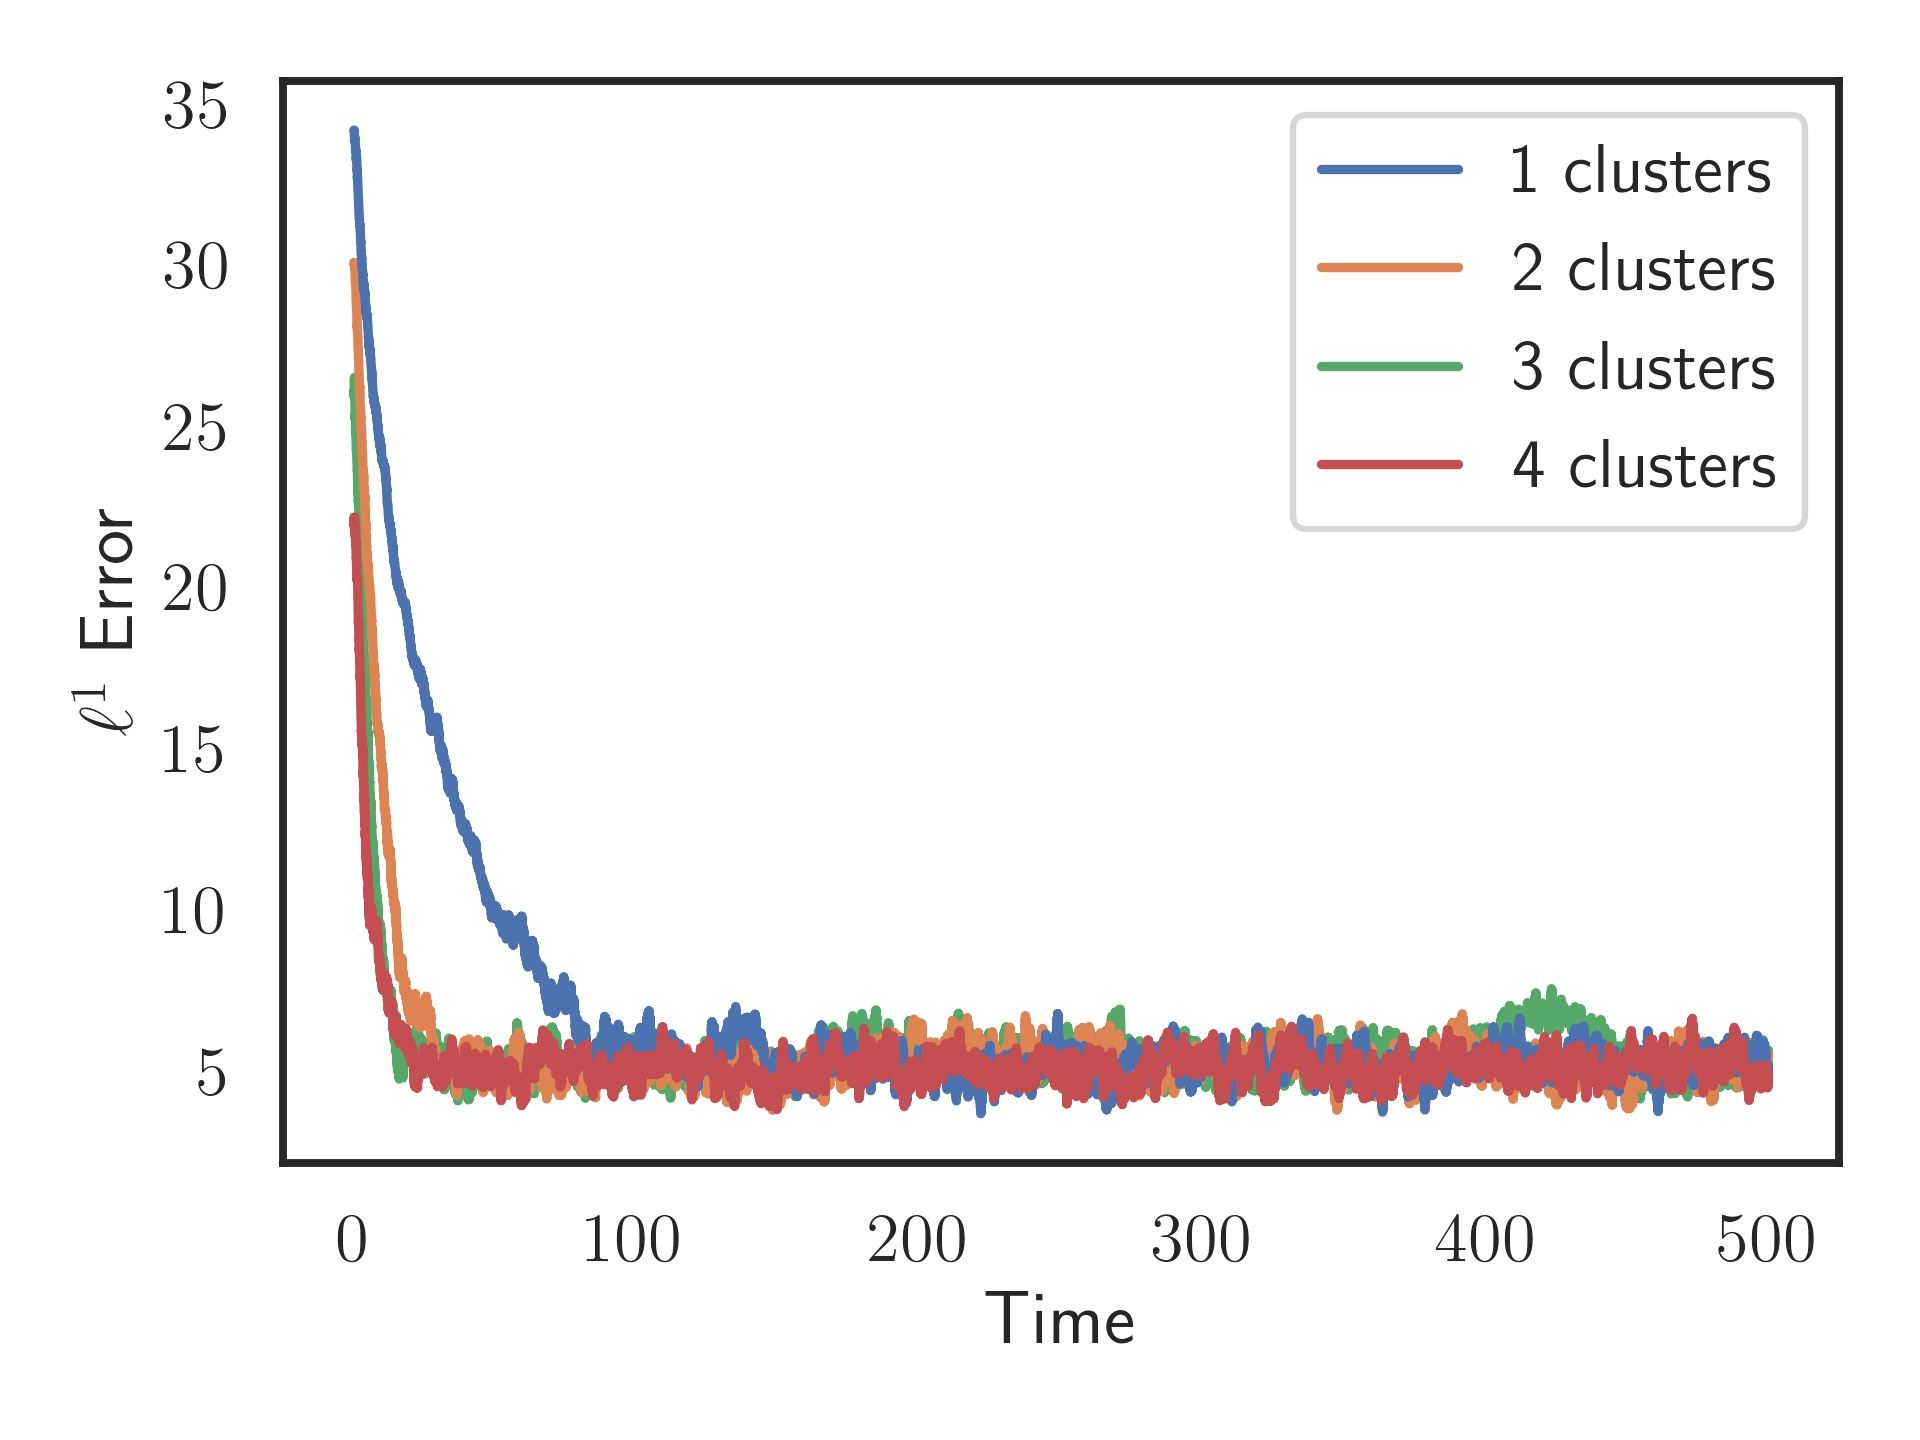
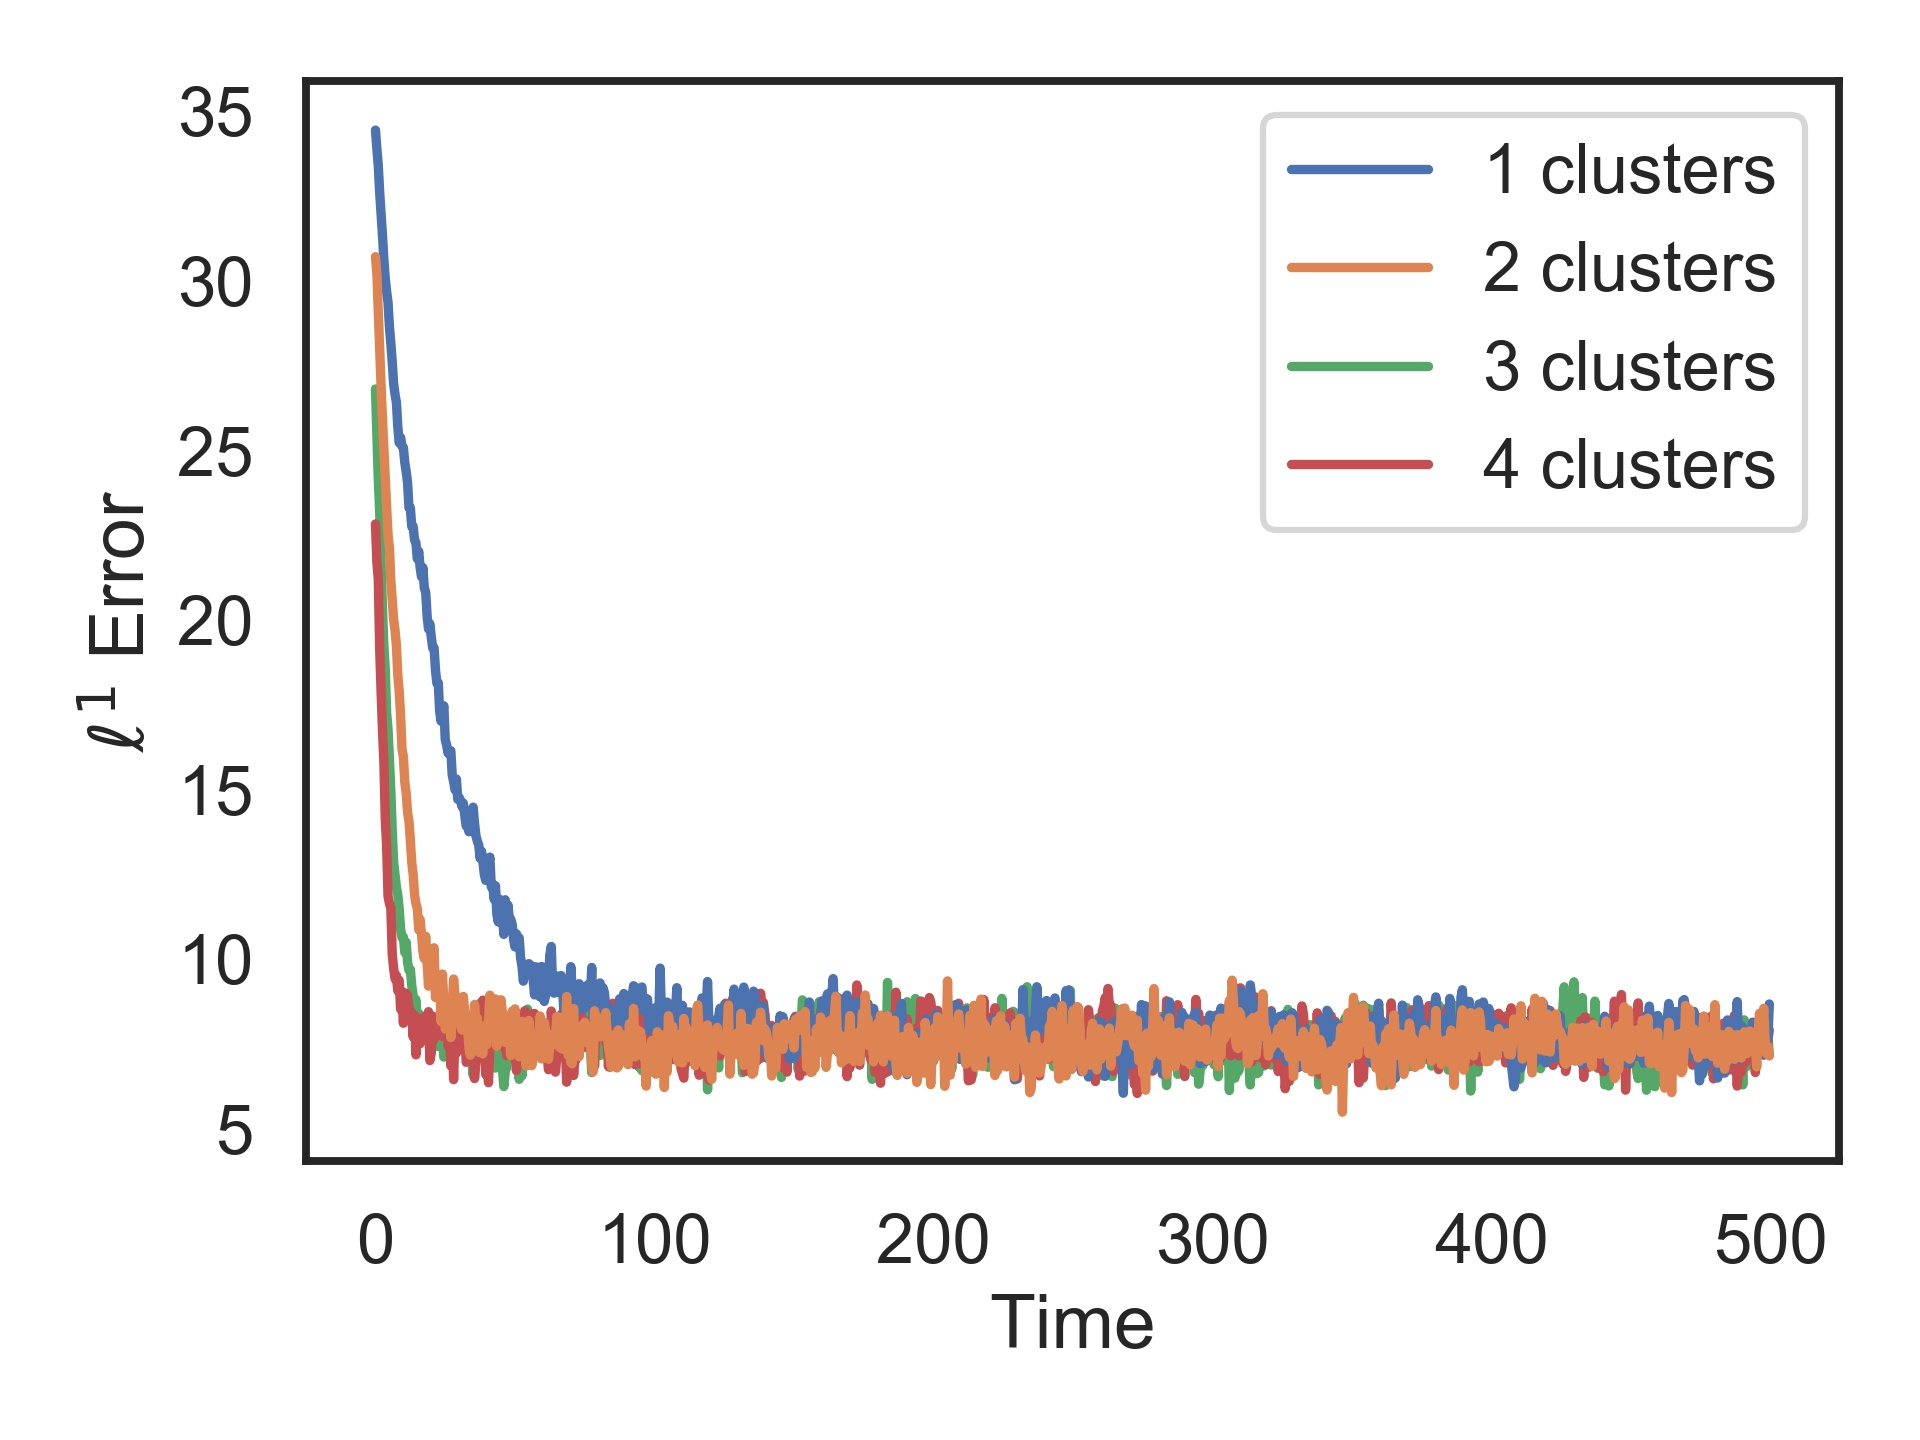
Tidying up with some f strings

diff --git a/particle/processing.py b/particle/processing.py
@@ -7,14 +7,16 @@ import itertools
 import numpy as np
 import pandas as pd
 import pathlib
-import seaborn as sns
+import warnings
+
+# import seaborn as sns
 import yaml
 
 from particle.simulate import get_trajectories
 
 
-sns.set()
-sns.color_palette("colorblind")
+# sns.set()
+# sns.color_palette("colorblind")
 
 """
 Running and Saving
@@ -55,8 +57,9 @@ def create_experiment_yaml(
 
     """
     pathlib.Path(file_path).mkdir(parents=True, exist_ok=True)
-    with open(file_path + filename + ".yaml", "w") as file:
+    with open(file_path + filename + ".yaml", "w+") as file:
         file.write("{}")
+
     with open(file_path + filename + ".yaml", "r") as file:
         experiment_yaml = yaml.safe_load(file)
 
@@ -86,21 +89,28 @@ def run_experiment(
     for values in itertools.product(*map(test_parameters.get, keys)):
 
         kwargs = dict(zip(keys, values))
-        # Pickle data, generate filename and store in yaml
-        # Run simulation
+
+        if "dt" not in kwargs:
+            kwargs["dt"] = round(kwargs["D"] * 0.1, 5)
+            print(f"No timestep given, scaling dt with diffusion dt = {kwargs['dt']}")
+
         print("\n Using parameters:\n")
         for parameter_name, parameter_value in kwargs.items():
-            print("\t{}:  {}".format(parameter_name, parameter_value))
+            print(f"\t{parameter_name}:  {parameter_value}")
 
         start_time = datetime.now()
+        # Run simulation
         x, v = get_trajectories(**kwargs)
 
-        print("Time to solve was  {} seconds".format(datetime.now() - start_time))
+        print(f"Time to solve was  {datetime.now() - start_time} seconds")
+
+        # Convert to Pandas df for easy conversion to feather
         position_df = pd.DataFrame(x)
         velocity_df = pd.DataFrame(v)
         position_df.columns = position_df.columns.map(str)
         velocity_df.columns = velocity_df.columns.map(str)
 
+        # Store as feather
         filename = generate_slug(4)
 
         pathlib.Path("Experiments/Data/").mkdir(parents=True, exist_ok=True)
@@ -110,9 +120,9 @@ def run_experiment(
         with open("Experiments/" + experiment_name + ".yaml", "w") as file:
             exp_yaml.update({filename: kwargs})
             yaml.dump(exp_yaml, file)
-        print("Saved at {}\n".format("Experiments/Data/" + filename))
+        print(f"Saved at {'Experiments/Data/' + filename}\n")
 
-    print("TOTAL TIME TAKEN: {}".format(datetime.now() - begin))
+    print(f"TOTAL TIME TAKEN: {datetime.now() - begin}")
 
 
 """
@@ -140,12 +150,14 @@ def match_parameters(fixed_parameters: dict, history: dict) -> list:
             matching_files.append(name)
     if matching_files[0] is None:
         raise ValueError("No matching parameters were found")
-    print("Found {} files matching parameters".format(len(matching_files)))
+    print(f"Found {len(matching_files)} files matching parameters")
     return matching_files
 
 
 def load_traj_data(
-    file_name: str, search_parameters: dict, data_path: str = "../Experiments/Data/",
+    file_name: str,
+    simulation_parameters: dict,
+    data_path: str = "../Experiments/Data/",
 ):
     """Get trajectory data from file
 
@@ -162,12 +174,14 @@ def load_traj_data(
     try:
         x = pd.read_feather(data_path + file_name + "_x").to_numpy()
         v = pd.read_feather(data_path + file_name + "_v").to_numpy()
-        t = np.arange(0, search_parameters["T_end"], 0.5)
-        return t, x, v
+
     except FileNotFoundError:
         print(data_path + file_name)
         print(f"Could not load file {file_name}")
         return
+    dt = simulation_parameters.get("dt", round(simulation_parameters["D"] * 0.1, 5))
+    t = np.arange(0, simulation_parameters["T_end"], 10 * dt)
+    return t, x, v
 
 
 if __name__ == "__main__":

diff --git a/noisysystem_temp/Analysis/analysis_helper.py b/noisysystem_temp/Analysis/analysis_helper.py
@@ -17,20 +17,21 @@ def plot_avg_vel(
     """Plots average velocity of particles on log scale, colours lines according to
     number of clusters in the inital condition
     """
-    # if scalarMap is None:
-    #     cm = plt.get_cmap("coolwarm")
-    #     cNorm = colors.DivergingNorm(vmin=0, vcenter=2, vmax=4)
-    #     scalarMap = mplcm.ScalarMappable(norm=cNorm, cmap=cm)
+    if scalarMap is None:
+        cm = plt.get_cmap("coolwarm")
+        cNorm = colors.DivergingNorm(vmin=0, vcenter=2, vmax=4)
+        scalarMap = mplcm.ScalarMappable(norm=cNorm, cmap=cm)
     history = get_master_yaml(exp_yaml)
     list_of_names = match_parameters(search_parameters, history)
     print(list_of_names)
     for file_name in list_of_names:
-        t, x, v = load_traj_data(file_name, search_parameters, data_path)
+        t, x, v = load_traj_data(file_name, search_parameters, history, data_path)
 
         cluster_count = _get_number_of_clusters(history[file_name]["initial_dist_x"])
         ax.plot(
+            t,
             v.mean(axis=1),
-            # color=scalarMap.to_rgba(cluster_count),
+            color=scalarMap.to_rgba(cluster_count),
             # label=f"{cluster_count} Clusters",
         )
     # plt.tight_layout()
@@ -50,14 +51,14 @@ def _get_number_of_clusters(initial_condition: str) -> int:
 
 
 def calculate_l1_convergence(
-    search_parameters: dict,
+    simulation_parameters: dict,
     file_name: str,
     plot_hist: bool = False,
     data_path: str = "../Experiments/Data/",
     yaml_path: str = "../Experiments/",
     final_plot_time: float = 100000,
 ):
-    t, x, v = load_traj_data(file_name, search_parameters, data_path)
+    t, x, v = load_traj_data(file_name, simulation_parameters, data_path)
 
     dt = t[1] - t[0]
     error = []
@@ -67,7 +68,7 @@ def calculate_l1_convergence(
         ax.set_prop_cycle(
             cycler(color=[colormap(k) for k in np.linspace(1, 0, int(1 / dt))])
         )
-    for i in np.arange(0, min(len(t), final_plot_time // dt + 1)):
+    for i in np.arange(0, int(min(len(t), final_plot_time // 0.5))):
         hist_x, bin_edges = numba_hist(x, i)
         error_t = np.abs(1 / (2 * np.pi) - hist_x).sum()
         error.append(error_t)
@@ -101,7 +102,9 @@ def plot_convergence_from_clusters(ax, search_parameters: dict, yaml_path: str):
     cycle = plt.rcParams["axes.prop_cycle"].by_key()["color"]
     for file_name in file_names:
         print(file_name)
-        error = calculate_l1_convergence(search_parameters, file_name, plot_hist=False)
+        error = calculate_l1_convergence(
+            search_parameters, file_name, history, plot_hist=False
+        )
         cluster_count = _get_number_of_clusters(history[file_name]["initial_dist_x"])
         ax.plot(
             t, error, label=f"{cluster_count} clusters", color=cycle[cluster_count - 1]

diff --git a/noisysystem_temp/Analysis/OneClusterVaryNoiseAnalysis.py b/noisysystem_temp/Analysis/OneClusterVaryNoiseAnalysis.py
@@ -1,4 +1,4 @@
-from matplotlib import rc
+# from matplotlib import rc
 import matplotlib.cm as mplcm
 import matplotlib.colors as colors
 import matplotlib.pyplot as plt
@@ -6,10 +6,11 @@ import numpy as np
 import seaborn as sns
 
 from analysis_helper import calculate_l1_convergence
-from particle.processing import get_master_yaml, match_parameters
+from particle.processing import get_master_yaml, match_parameters, load_traj_data
+from particle.plotting import anim_torus
 
 # Standard plotting choices
-rc("text", usetex=True)
+# rc("text", usetex=True)
 sns.set(style="white", context="talk")
 
 search_parameters = {
@@ -21,22 +22,18 @@ search_parameters = {
     "initial_dist_x": "one_cluster",
     "initial_dist_v": "pos_const_near_0",
     "T_end": 250.0,
-    "dt": 0.005,
+    # "dt": 0.015,
 }
 
 
-final_plot_time = 50
+final_plot_time = 5000000
 
-yaml_path = "../Experiments/one_cluster_vary_noise"
+yaml_path = "../Experiments/one_cluster_vary_noise_scale_dt"
 data_path = "../Experiments/Data/"
 
 history = get_master_yaml(yaml_path)
 file_names = match_parameters(search_parameters, history)
 
-
-t = np.arange(
-    0, min(search_parameters["T_end"], final_plot_time), search_parameters["dt"]
-)
 
 fig, ax = plt.subplots()
 
@@ -50,26 +47,38 @@ cbar = fig.colorbar(scalarMap, ticks=np.arange(0, 0.5, 0.05))
 
 # For each matching desired parameters, calculate the l1 error and plot
 for file_name in file_names:
+    simulation_parameters = history[file_name]
     error = calculate_l1_convergence(
-        search_parameters,
+        simulation_parameters,
         file_name,
         plot_hist=False,
         yaml_path=yaml_path,
         data_path=data_path,
         final_plot_time=final_plot_time,
     )
+    t = np.arange(
+        0,
+        min(simulation_parameters["T_end"], final_plot_time),
+        10 * simulation_parameters["dt"],
+    )
+
     ax.plot(
         t,
         error,
-        color=scalarMap.to_rgba(history[file_name]["D"]),
-        label=f"{history[file_name]['D']}",
+        color=scalarMap.to_rgba(simulation_parameters["D"]),
+        label=f"{simulation_parameters['D']}",
         alpha=0.5,
     )
+    if simulation_parameters["D"] == 0.05:
+        _t, _x, _v = load_traj_data(file_name, simulation_parameters, data_path)
 
+ax.plot([0, t[-1]], [7.5, 7.5], "k--", alpha=0.2)
 ax.set(xlabel="Time", ylabel=r"$\ell^1$ Error")
 cbar.set_label(r"Diffusion $\sigma$", rotation=270)
 cbar.ax.get_yaxis().labelpad = 15
 plt.tight_layout()
+# plt.show()
+# ani = anim_torus(_t, _x, _v, subsample=50)
 plt.show()
 
 # fig.savefig(f"OneClusterVaryNoiselargerGamma.jpg", dpi=300)

diff --git a/noisysystem_temp/OneClusterVaryNoise.py b/noisysystem_temp/OneClusterVaryNoise.py
@@ -1,30 +1,25 @@
 import numpy as np
-import particle.processing_v2 as processing
+import particle.processing as processing
 
 
 particles = 480
-
+diffusion = np.arange(0.05, 0.5, 0.05)
 
 test_params = {
     "particle_count": [particles],  # (3 * np.arange(8, 150, 16)).tolist(),
-    "gamma": [0.01, 0.1],
+    "gamma": [0.01],
     "G": ["Smooth"],
     "scaling": ["Local"],
-    "D": np.arange(0.05, 0.5, 0.05).tolist(),
+    "D": diffusion.tolist(),
     "phi": ["Gamma"],
     "initial_dist_x": ["one_cluster"],
     "initial_dist_v": ["pos_const_near_0"],
     "T_end": [250.0],
-    "dt": [0.005],
     "option": ["numba"],
+    # "dt": [0.015],
 }
 
 
 history = processing.get_master_yaml(yaml_path="experiments_ran")
-# fn = (
-#     f"""{test_params["initial_dist_v"][0]}_"""
-#     f"""vel_{test_params["scaling"][0]}_G{test_params["G"][0]}_"""
-#     f"""T{int(test_params["T_end"][0])}_noise_report_Galpha"""
-# )
-fn = f"""one_cluster_vary_noise"""
+fn = f"""one_cluster_vary_noise_scale_dt"""
 processing.run_experiment(test_params, history, experiment_name=fn)

diff --git a/noisysystem_temp/Analysis/PositivePhiAnalysis.py b/noisysystem_temp/Analysis/PositivePhiAnalysis.py
@@ -1,11 +1,12 @@
 from matplotlib import rc
 import matplotlib.pyplot as plt
+
 import seaborn as sns
 
 from analysis_helper import plot_convergence_from_clusters, plot_avg_vel
 
 # rc("text", usetex=True)
-# sns.set(style="white", context="talk")
+sns.set(style="white", context="talk")
 
 search_parameters = {
     "particle_count": 480,
@@ -20,11 +21,11 @@ search_parameters = {
 }
 yaml_path = "../Experiments/positive_phi_no_of_clusters"
 
-fig, ax2 = plt.subplots(1, 1)
-# ax1 = plot_convergence_from_clusters(ax1, search_parameters, yaml_path)
+fig, [ax1, ax2] = plt.subplots(1, 2, sharex=True)
+ax1 = plot_convergence_from_clusters(ax1, search_parameters, yaml_path)
 
 ax2 = plot_avg_vel(ax2, search_parameters, exp_yaml=yaml_path)
-# ax1.plot([0, 500], [7.5, 7.5], "k--", alpha=0.2)
+ax1.plot([0, 500], [7.5, 7.5], "k--", alpha=0.2)
 ax2.set(ylabel=r"$M^N(t) $")
 # ax2.legend()
 # fig.savefig(f"PositivePhiConvergence.jpg", dpi=300)

diff --git a/particle/simulate.py b/particle/simulate.py
@@ -314,7 +314,8 @@ def get_trajectories(
     # Number of steps
     N = np.int64(T_end / dt)
     # Preallocate matrices
-    x_history = np.zeros((N, particle_count), dtype=np.float64)
+
+    x_history = np.zeros((np.int64(N / 10) + 1, particle_count), dtype=np.float64)
     v_history = np.zeros_like(x_history)
     x, v = set_initial_conditions(
         initial_dist_x=initial_dist_x,
@@ -364,10 +365,11 @@ def get_trajectories(
                 alpha,
             )
         )
-        if (n * dt) % 0.5 == 0:
+        if n % 10 == 0:
             # TODO: Change so that number of save points is input (and less!)
-            x_history[n, :] = x
-            v_history[n, :] = v
+            x_history[n // 10, :] = x
+            v_history[n // 10, :] = v
+
     return x_history, v_history
 
 

diff --git a/noisysystem_temp/Analysis/OneClusterVaryGammaAnalysis.py b/noisysystem_temp/Analysis/OneClusterVaryGammaAnalysis.py
@@ -9,7 +9,7 @@ from analysis_helper import calculate_l1_convergence
 from particle.processing import get_master_yaml, match_parameters
 
 # Standard plotting choices
-rc("text", usetex=True)
+# rc("text", usetex=True)
 sns.set(style="white", context="talk")
 
 search_parameters = {
@@ -30,7 +30,7 @@ yaml_path = "../Experiments/one_cluster_vary_gamma"
 history = get_master_yaml(yaml_path)
 file_names = match_parameters(search_parameters, history)
 
-t = np.arange(0, search_parameters["T_end"], search_parameters["dt"])
+t = np.arange(0, search_parameters["T_end"], 0.5)
 
 fig, ax = plt.subplots()
 cm = plt.get_cmap("coolwarm")

diff --git a/noisysystem_temp/CutoffPhi.py b/noisysystem_temp/CutoffPhi.py
@@ -25,10 +25,5 @@ test_params = {
 
 
 history = processing.get_master_yaml(yaml_path="experiments_ran")
-# fn = (
-#     f"""{test_params["initial_dist_v"][0]}_"""
-#     f"""vel_{test_params["scaling"][0]}_G{test_params["G"][0]}_"""
-#     f"""T{int(test_params["T_end"][0])}_noise_report_Galpha"""
-# )
 fn = f"""cutoff_phi_no_of_clusters"""
 processing.run_experiment(test_params, history, experiment_name=fn)

diff --git a/noisysystem_temp/Analysis/CutoffPhiAnalysis.py b/noisysystem_temp/Analysis/CutoffPhiAnalysis.py
@@ -4,7 +4,7 @@ import seaborn as sns
 
 from analysis_helper import plot_convergence_from_clusters
 
-rc("text", usetex=True)
+# rc("text", usetex=True)
 sns.set(style="white", context="talk")
 
 search_parameters = {

diff --git a/noisysystem_temp/OneClusterVaryGamma.py b/noisysystem_temp/OneClusterVaryGamma.py
@@ -1,5 +1,5 @@
 import numpy as np
-import particle.processing_v2 as processing
+import particle.processing as processing
 
 
 particles = 480
